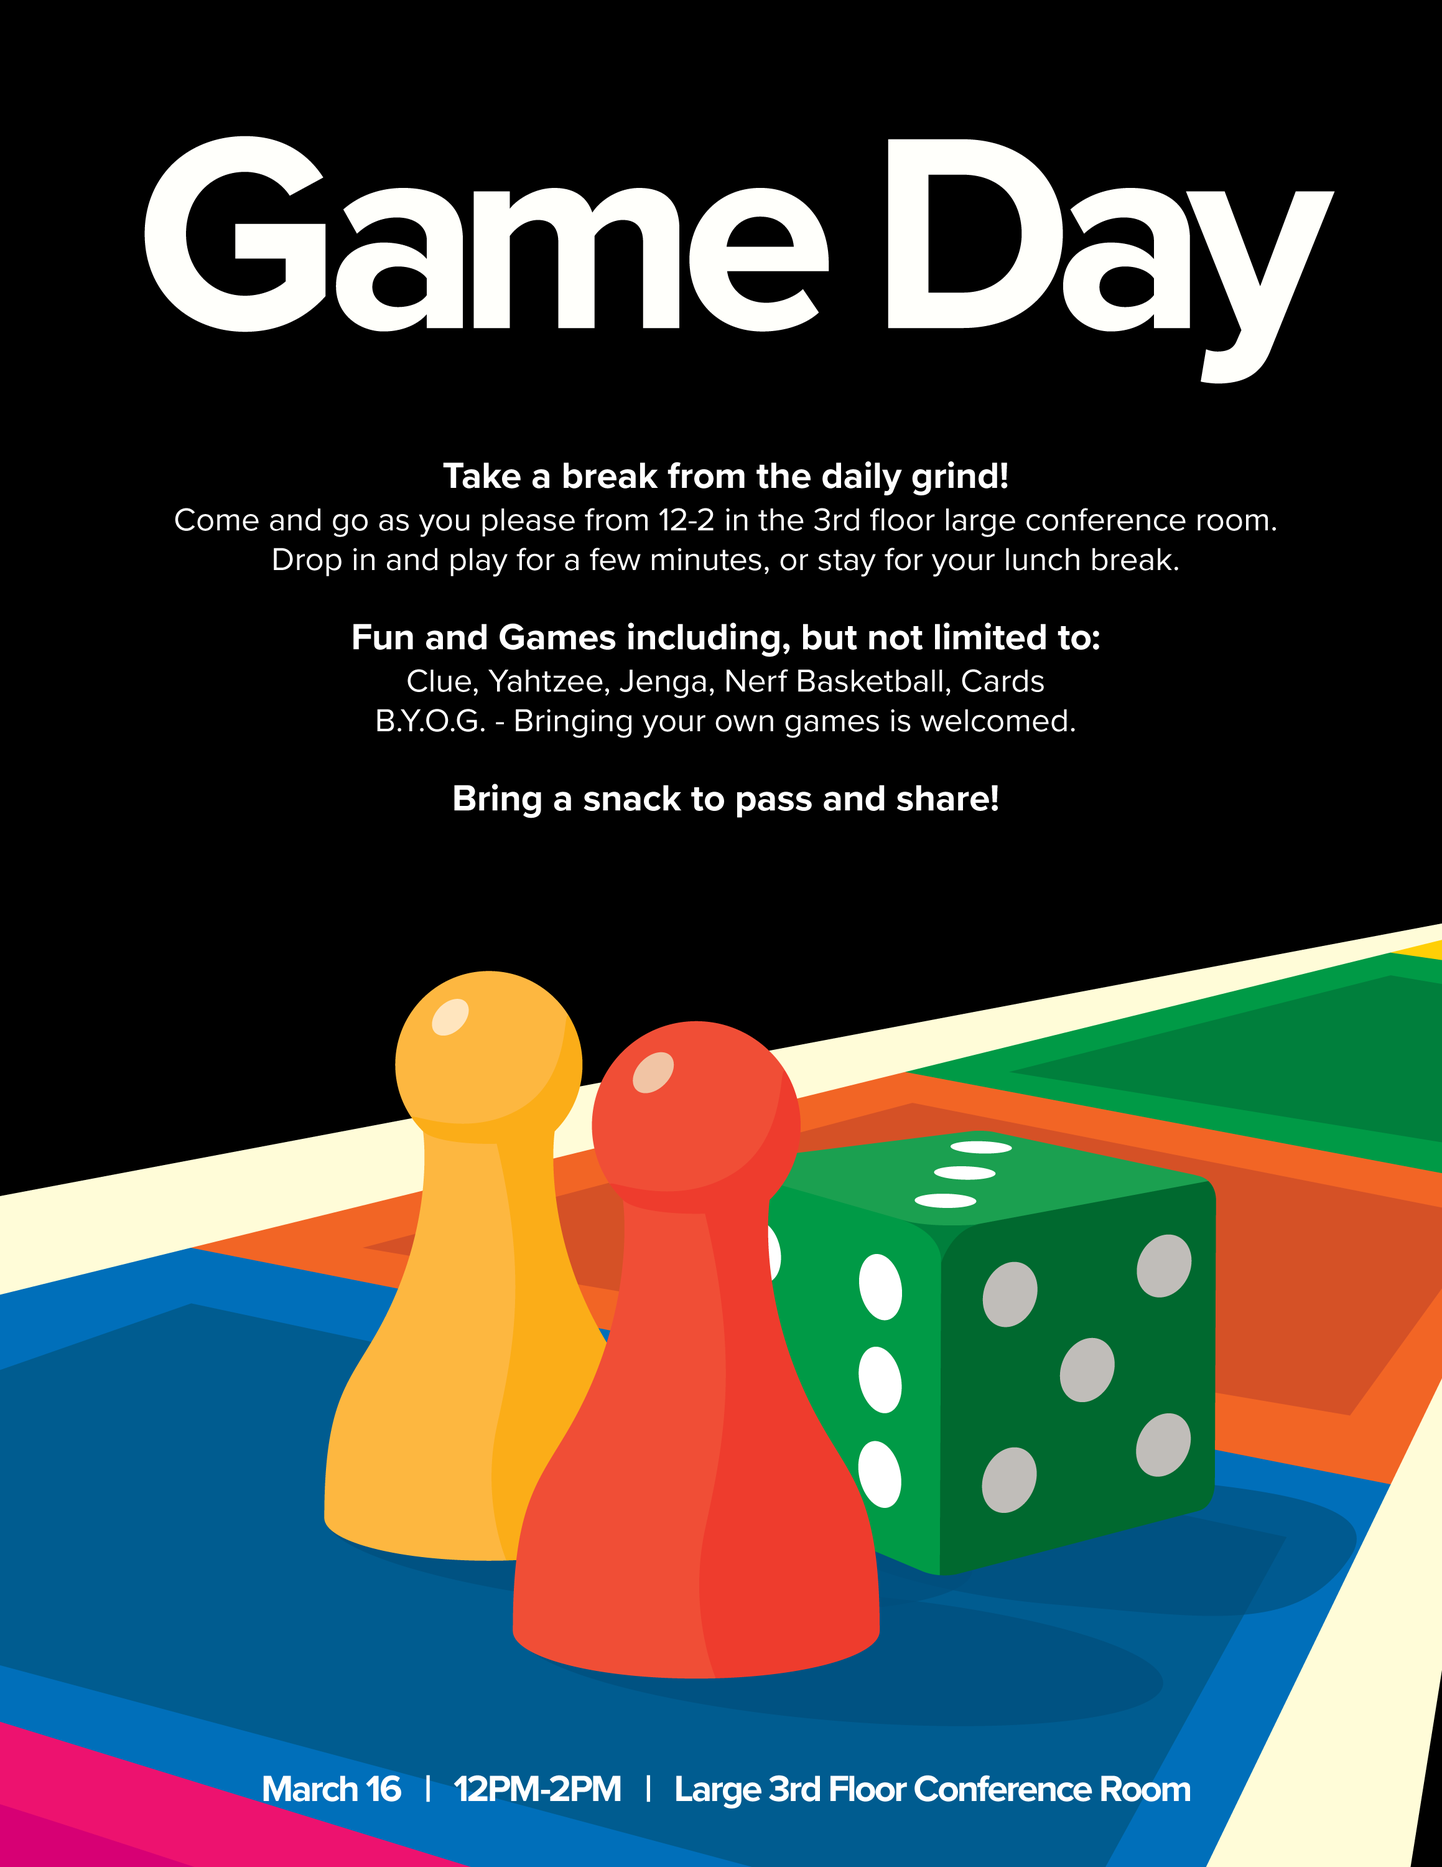
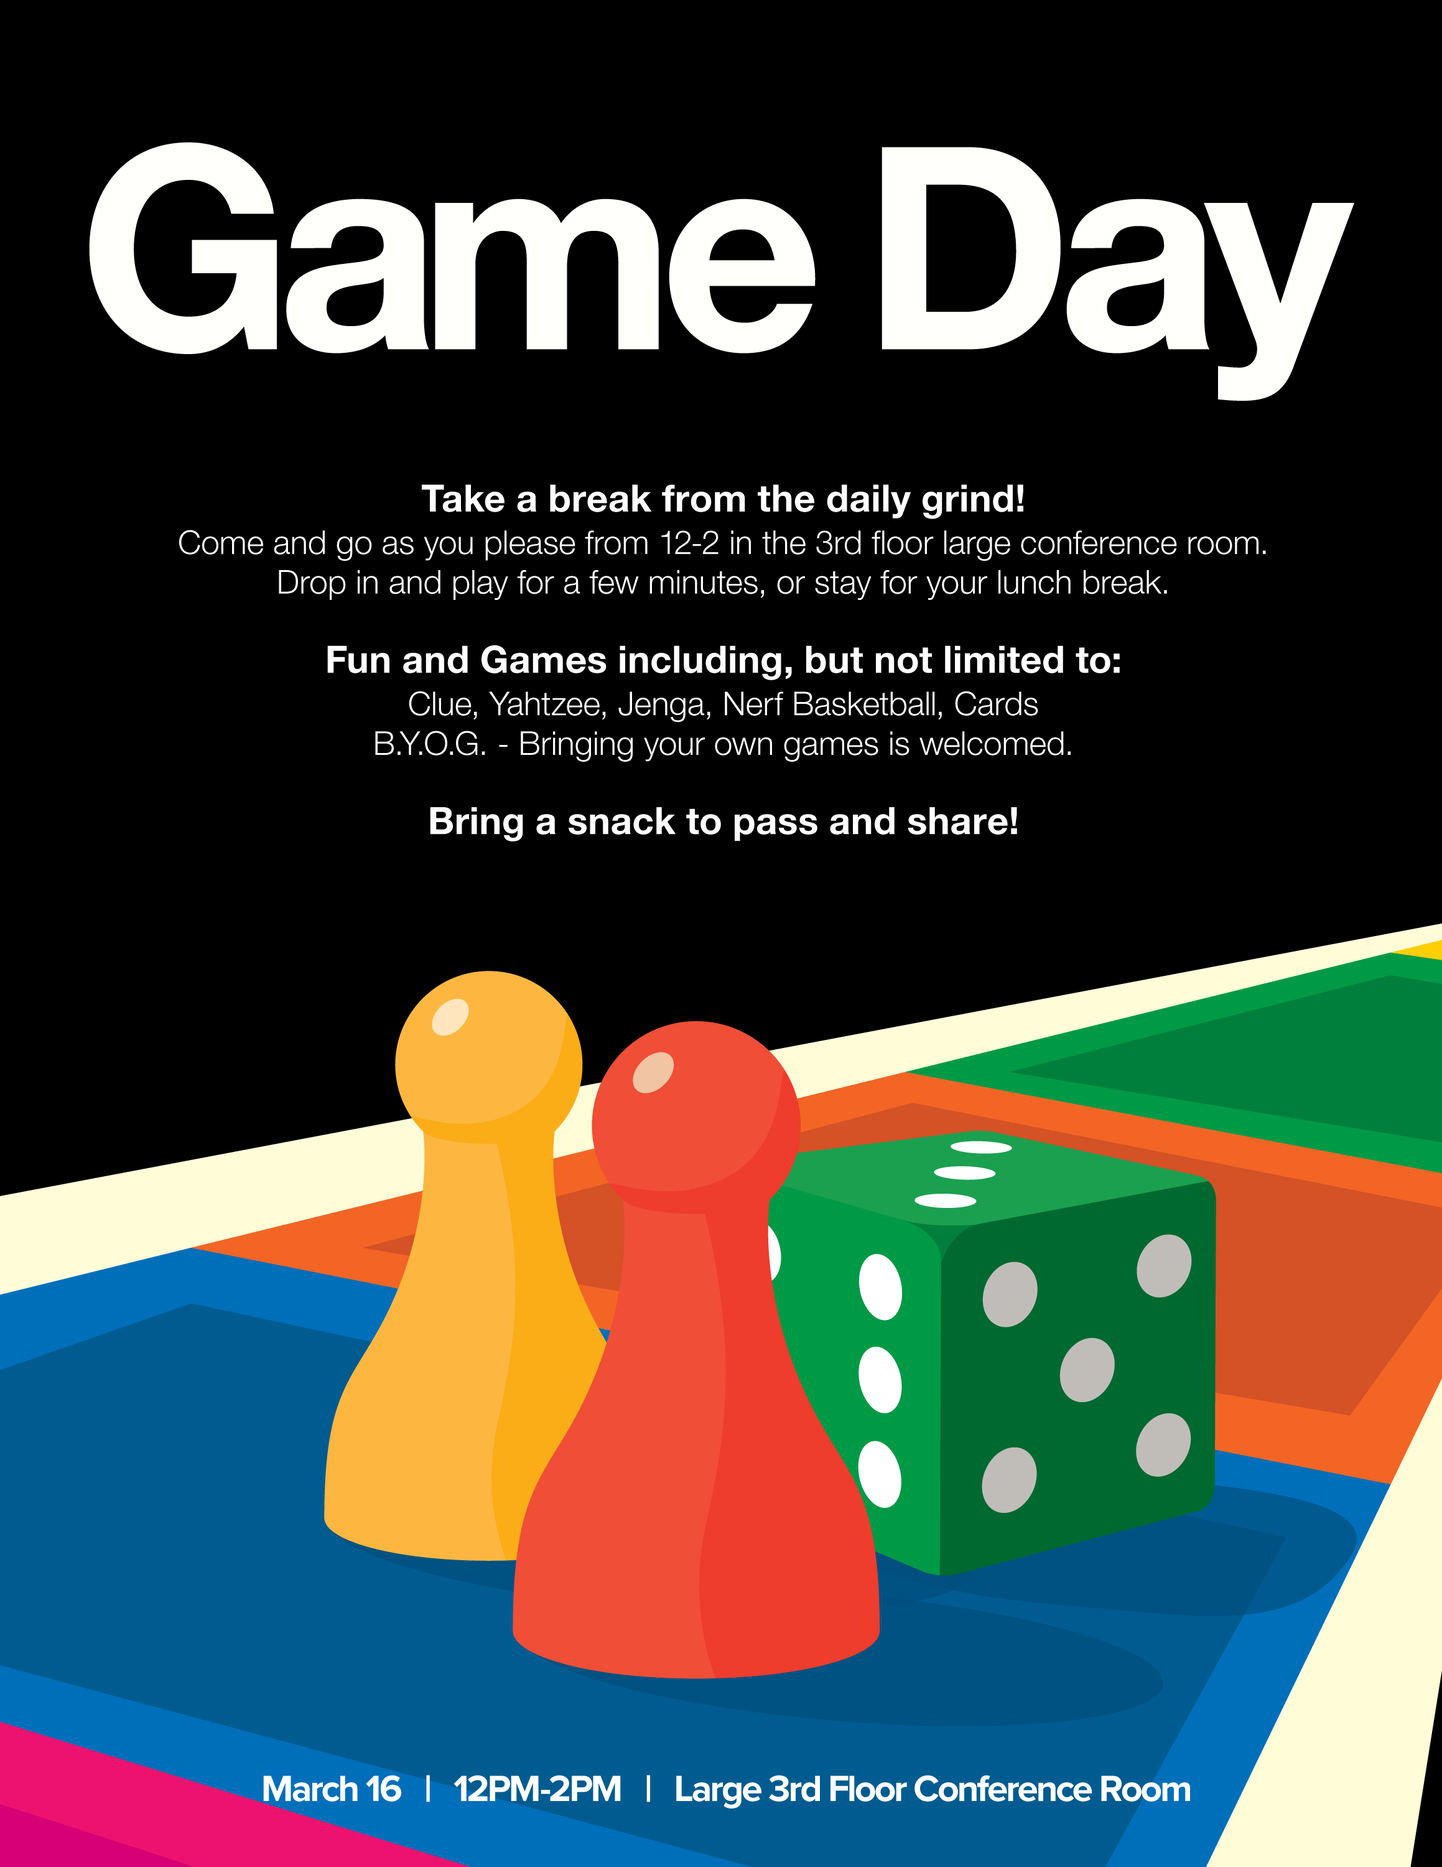
add a couple more works, replace game day image with original, update descriptions

Changed region(s): [[0.1242, 0.248, 0.8697, 0.465], [0.0621, 0.062, 0.9318, 0.217]]

diff --git a/seeds/projects.js b/seeds/projects.js
@@ -5,10 +5,12 @@ const   faker        = require("faker"),
         path: [
                 "../img/projects/savethedate-landscape.jpg",
                 "../img/projects/savethedate-front.png",
-                "../img/projects/savethedate-portrait.png"
+                "../img/projects/savethedate-portrait.png",
+                "../img/projects/savethedate-sun.png",
+                "../img/projects/savethedate-nightsky.png"
         ],
         title: "Save The Date! - James & Angela",
-        description: "Our 'Save the Date' I made for our wedding. :) My wife and I enjoy going to festivals and events, and we enjoy relaxed environments and bright colors. This save the date was meant to reflect that chilled excitement.",
+        description: "Our 'Save the Date' I made for our wedding. :) My wife and I enjoy going to festivals and events, and we enjoy relaxed environments and bright colors. This save the date was meant to reflect that chilled excitement. It was fun as well to take an oppotunity to do some slick typography and use bold colors! \n\nThe background is layered silhouettes of trees and mountains. The original had a setting sun in it, but that was later removed as it intruded too much upon the foreground content.",
         media: [
             "Adobe Illustrator",
             "Adobe Photoshop",
@@ -21,7 +23,7 @@ const   faker        = require("faker"),
                 "../img/projects/disaster-calendar.png"
         ],
         title: "Disaster Calendar",
-        description: "A themed calendar that was the semester project for a Graphic Design course at college. I chose 'natural disasters' as my theme after brainstorming a couple of themes and page ideas for each.",
+        description: "A themed calendar that was the semester project for a Graphic Design course at college. I chose 'natural disasters' as my theme after brainstorming a couple of themes and page ideas for each. I had such a great time with this one, and was very pleased with how many different ideas I was able to come up with. The professor pushed us very hard with criticism for this project, and I think it shows. \n \nThat poor house can't catch a break!",
         media: [
             "Adobe Illustrator",
             "Print"
@@ -34,7 +36,7 @@ const   faker        = require("faker"),
                 "../img/projects/burgundy-mono.png"
         ],
         title: "\"Burgundy\" Typography Abstract",
-        description: "Based off \"Burgundy\" by Ken Nordine \n \nAn accordion-fold adapation of a jazz poem by Ken Nordine, called \"Burgundy\". \"Burgundy\" is part of a larger series of jazz poems by Ken Nordine called \"Colors\". This was a final project for a Graphic Design course, for which each student in the class was assigned a color that was in the collection of jazz poems.",
+        description: "Based off \"Burgundy\" by Ken Nordine \n \nAn accordion-fold adapation of a jazz poem by Ken Nordine, called \"Burgundy\". \"Burgundy\" is part of a larger series of jazz poems by Ken Nordine called \"Colors\". This was a final project for a Graphic Design course, for which each student in the class was assigned a color that was in the collection of jazz poems. They're quite goofy. I definitely recommend giving at least \"Burgundy\" a listen while you read it, if you can.",
         media: [
             "Adobe Illustrator",
             "Print"
@@ -67,7 +69,7 @@ const   faker        = require("faker"),
                 "../img/projects/geodelogo-2019-3.png"   
         ],
         title: "'GEODE' Concepts",
-        description: "A conceptual piece that became what I call my body of work! \n \nThe 'G' based logo is what I started with, originally. By the end of the afternoon, I had worked my way into a completely different concept, with a geode-like crystal replacing the O in GEODE. \n \nI used the latter as the logo for my portfolio for 2 years. The design evolved a bit more (and will continue to as time moves forward), and has become, for the time being, what you see in the navbar and footer of this iteratiton of my portfolio.",
+        description: "A conceptual piece that became what I call my body of work! \n \nThe 'G' based logo is what I started with, originally. By the end of the afternoon, I had worked my way into a completely different concept, with a geode-like crystal replacing the O in GEODE. \n \nI used the latter as the logo for my portfolio for 2 years. \n \nThe design evolved a bit more (and will continue to as time moves forward, more than likely), and has become, for the time being, what you see in the navbar and footer of this iteration of my portfolio. \n \nIt has kind of become my \"brand\" I suppose, or at least one I can experiment and practice upon.",
         media: [
             "Adobe Illustrator"
         ],
@@ -78,7 +80,7 @@ const   faker        = require("faker"),
                 "../img/projects/modernclassic.png"
         ],
         title: "Modern Classic Flyer",
-        description: "An illustration/flyer I developed for an event called the Modern Classic. I re-drew the chair from a reference photograph.",
+        description: "An illustration/flyer I developed for an event my company hosted annually called the Modern Classic. I re-drew the chair from a reference photograph of a Herman Miller Eames Molded Plastic Armchair.",
         media: [
             "Adobe Illustrator",
             "Print"
@@ -90,7 +92,7 @@ const   faker        = require("faker"),
                 "../img/projects/potluck.png"
         ],
         title: "Halloween Potluck Flyer",
-        description: "A flyer for a \"Secret Gift Exchange\" for posting around the office at a previous job. I was given artistic freedom aside from the required information.",
+        description: "A flyer for a \"Halloween Potluck\" for posting around the office at a previous job. I am still not sure what the contents of the bubbling cauldron were supposed to be, I just had the idea of a cauldron in my head (probably due to the word \"pot\"). Lobster bisque? Just kidding. I used Lakesight and Gotham for the display text and the information, which I thought made a lovely combination. This may still be my favorite flyer I made for that office. \n \nI was given artistic freedom aside from the required information.",
         media: [
             "Adobe Illustrator",
             "Print"
@@ -102,7 +104,7 @@ const   faker        = require("faker"),
                 "../img/projects/secretgiftexchange.png"
         ],
         title: "Secret Gift Exchange Flyer",
-        description: "A flyer for a \"Secret Gift Exchange\" for posting around the office at a previous job.  I was given artistic freedom aside from the required information.",
+        description: "A flyer for a \"Secret Gift Exchange\" for posting around the office at a previous job. I love colorful imagery (you may have noticed), so I decided to incorporate all of the colors of the mainstream winter holidays into one image. I began with just the box, and experimented with depth as I began to add more details. I always liked how this one turned out. \n \nI was given artistic freedom aside from the required information.",
         media: [
             "Adobe Illustrator",
             "Print"
@@ -126,7 +128,7 @@ const   faker        = require("faker"),
                 "../img/projects/gameday.png"
         ],
         title: "Game Day Flyer",
-        description: "A flyer for a \"Game Day\" for posting around the office at a previous job. I was given artistic freedom aside from the required information.",
+        description: "A flyer for a \"Game Day\" for posting around the office at a previous job. As you can imagine, it was a mid-day office event type of deal where you could go play board games with co-workers and enjoy some snacks. I drew inspiration from retro, Parker-Brothers-type of board game boxes I remember from my childhood. \n\nI was given artistic freedom aside from the required information.",
         media: [
             "Adobe Illustrator",
             "Print"
@@ -145,7 +147,7 @@ const   faker        = require("faker"),
                 "../img/projects/flyer-silent-library.png"
         ],
         title: "UMBC SEB Event Flyers",
-        description: "Perhaps my favorite part of being a part of the Student Events Board at UMBC was having the opportunity to make these flyers. I had fun conceptualizing these flyers, while also getting practice with Adobe Illustrator. \n \nAs a developing artist, it was a special feeling to see my work posted around campus on notice boards. Poster/flyer design was something I particularly enjoyed during Art History courses at the time, and I was grateful to have a brief opportunity to make some actual hand-posted art.",
+        description: "Perhaps my favorite part of being a part of the Student Events Board at UMBC was having the opportunity to make these flyers. Despite one of them saying \"Color Run\", all of these flyers were printed on various colors of letter-size paper chosen, likely at random, by the printer. I had a lot of fun conceptualizing these flyers, while also getting practice working with Adobe Illustrator. \n \nAs a developing artist, it was a special feeling to see my work posted around campus on notice boards. Poster/flyer design was something I particularly enjoyed during Art History courses at the time, and I was grateful to have a brief opportunity to make some actual hand-posted art.",
         media: [
             "Adobe Illustrator",
             "Print"

diff --git a/seeds/illustration.js b/seeds/illustration.js
@@ -32,7 +32,7 @@ const   faker        = require("faker"),
     {
         path: "../img/illustration/hipster-doofus.png",
         title: "Hipster Doofus",
-        description: "A cover for a fictional album called \"Hipster Doofus\" by a fictional artist named \"Phlegm\". Just for fun.",
+        description: "A cover for a fictional album called \"Hipster Doofus\" by a fictional artist named \"Phlegm\". Just for fun. I use this image minus the text as my profile picture for Twitter, Twitch, and Discord and has sort of become a logo of mine. I consider it a representation of how things that are different can come together in harmony.",
         media: [
             "Adobe Illustrator"
         ],
@@ -42,16 +42,25 @@ const   faker        = require("faker"),
         path: "../img/illustration/abstract-1.png",
         title: "Abstract #1",
         // seedFunction.toTitleCase(faker.lorem.words()),
-        description: "An abstract experiment of shape and color that was made to resemble a polygonal eyeball but also appear emblematic.",
+        description: "An abstract experiment of shape and color that was made to resemble a polygonal eyeball but also appear emblematic. I hope to eventually use this for something or elaborate upon it.",
         media: [
             "Adobe Illustrator"
         ],
         year: "2018"
     },
     {
+        path: "../img/illustration/abstract-2.png",
+        title: "Abstract #2",
+        description: "An experiment with a psychedlic palette of colors, incorporating inspirations from fantasy books and games. It has turned out especially wild so far, and is something I plan to add more details to over time.",
+        media: [
+            "Adobe Illustrator"
+        ],
+        year: "2019"
+    },
+    {
         path: "../img/illustration/bk.png",
         title: "Bone King",
-        description: "A goofy illustration/doodle where I wanted to make a line drawing with bright colors.",
+        description: "A goofy illustration/doodle where I wanted to make a line drawing with bright colors. Added a cute little skull to the crown, reminiscent of something out of Adventure Time.",
         media: [
             "Adobe Illustrator"
         ],
@@ -69,7 +78,7 @@ const   faker        = require("faker"),
     {
         path: "../img/illustration/midair.png",
         title: "MID-AIR Emote",
-        description: "An emote I made for a professional Quake player's Twitch channel. Based off the Mid-Air medal reward in Quake Champions, for striking an airborne opponent and slaying them with a single rocket.",
+        description: "An emote I made for GaRpY, a professional Quake player, to use on his Twitch channel. The design is based off of the Mid-Air medal reward in Quake Champions, which is awarded for striking an airborne opponent and slaying them with a single rocket.",
         media: [
             "Adobe Illustrator"
         ],
@@ -78,7 +87,7 @@ const   faker        = require("faker"),
     {
         path: "../img/illustration/cronoburp.png",
         title: "Crono Soda Chug Emote",
-        description: "An emote I made for my personal Twitch channel. It features Crono, from Chrono Trigger, struggling to win the Soda Chug.",
+        description: "An emote I made for my personal Twitch channel. It features a Crono, from Chrono Trigger, struggling to win the Soda Chug. It may have been subconsciously influenced by the fact that Akira Toriyama (creator of Dragon Ball) did the character design for Chrono Trigger, but many have told me that it is a decent imitation of one of his styles of drawing characters. \n\nThe emote sizes for Twitch are 112x112 pixels, 56x56 pixels, and 28x28 pixels, and the vast majority of the time they are displayed at 28x28 pixels on PC. This is only slightly larger than the favicon next to the page name in your browser window! Mobile uses the slightly higher resolution versions, but still displays relatively tiny. This becomes an interesting puzzle when translating a larger drawing to such a small, pixelated canvas. One thing going for someone creating for this size is that the drawing can remain fairly rough.",
         media: [
             "Adobe Illustrator"
         ],
@@ -87,7 +96,7 @@ const   faker        = require("faker"),
     {
         path: "../img/illustration/terrayaya.png",
         title: "Terra AYAYA Emote",
-        description: "An emote I made for my personal Twitch channel. It features Terra, from Final Fantasy 6, in a format derivate of a popular emote called AYAYA, which features a friendly anime girl's face during an excited outburst.",
+        description: "An emote I made for my personal Twitch channel. It features Terra, from Final Fantasy 6, in a format derivate of a popular emote called AYAYA, which features a friendly anime girl's face during an excited outburst. As with the Crono drawing, this was destined to be displayed at 28x28 pixels.",
         media: [
             "Adobe Illustrator"
         ],
@@ -96,7 +105,7 @@ const   faker        = require("faker"),
     {
         path: "../img/illustration/kirby.png",
         title: "Kirby! (Nintendo)",
-        description: "An illustration of Kirby that I made to experiment with chromatic effects.",
+        description: "An illustration of Kirby that I made to experiment with chromatic effects. Kirby loves to eat, constantly, so of course he is chasing food!",
         media: [
             "Adobe Illustrator"
         ],

diff --git a/seeds/digital.js b/seeds/digital.js
@@ -5,11 +5,20 @@ const   faker        = require("faker"),
         path: "../img/digital/beneath.png",
         title: "Look Beneath",
         // seedFunction.toTitleCase(faker.lorem.words()),
-        description: "A cover for a fictional album called \"Look Beneath\" by an unnamed fictional artist. A very fun afternoon project in Photoshop.",
+        description: "A cover for a fictional album called \"Look Beneath\" by an unnamed fictional artist. A very fun afternoon project in Photoshop. It began as a triangle with two shadows, and evolved into a crazy piece with water and colors and even more lights.",
         media: [
             "Adobe Photoshop"
         ],
         year: "2018"
+    },
+    {
+        path: "../img/digital/zotac142.png",
+        title: "ZOTAC Sunday Duel Cup #142",
+        description: "ZOTAC is a PC and PC hardware company who sponsored several years of Sunday Duel Cups, with a prize pool, for the Quake Live (an Arena First Person Shooter game) community. Level Up TV covered a great deal of these cups over the years; our archived videos reach all the way back to cup #67 at least. I love how the sign turned out, and this was a format I could easily update for subsequent weeks by just changing the number in the Photoshop file and tweaking its position.",
+        media: [
+            "Adobe Photoshop"
+        ],
+        year: "2012"
     },
     {
         path: "../img/digital/cb-ec-gf.png",
@@ -86,7 +95,7 @@ const   faker        = require("faker"),
     {
         path: "../img/digital/tdmpickup-playmore.png",
         title: "#TDMPICKUP - Play More TDM",
-        description: "This was a holding screen we would show on the live video feed during breaks in content, accompanied by music.",
+        description: "This was a holding screen we would show on the live video feed during breaks in #TDMPICKUP related content, accompanied by music. The image is a screenshot from in-game Quake Live touched up and detailed in Photoshop.",
         media: [
             "Adobe Photoshop"
         ],
@@ -95,7 +104,7 @@ const   faker        = require("faker"),
     {
         path: "../img/digital/tdmpickup-playmore-2.png",
         title: "#TDMPICKUP - Play More TDM #2",
-        description: "This was a holding screen we would show on the live video feed during breaks in content, accompanied by music.",
+        description: "This was a holding screen we would show on the live video feed during breaks in #TDMPICKUP related content, accompanied by music. The image is a screenshot from in-game Quake Live touched up and detailed in Photoshop.",
         media: [
             "Adobe Photoshop"
         ],

diff --git a/public/stylesheets/styles.css b/public/stylesheets/styles.css
@@ -742,7 +742,7 @@ footer {
 .landing-darken-bg {
     max-width: 100%;
     background-color: rgba(10, 14, 20, 0.9);
-    box-shadow: inset 0 0 100px 100px rgba(0, 0, 0, 0.50);
+    box-shadow: inset 0 0 100px 100px rgba(10, 14, 20, 0.50);
 }
 
 .landing-row {
